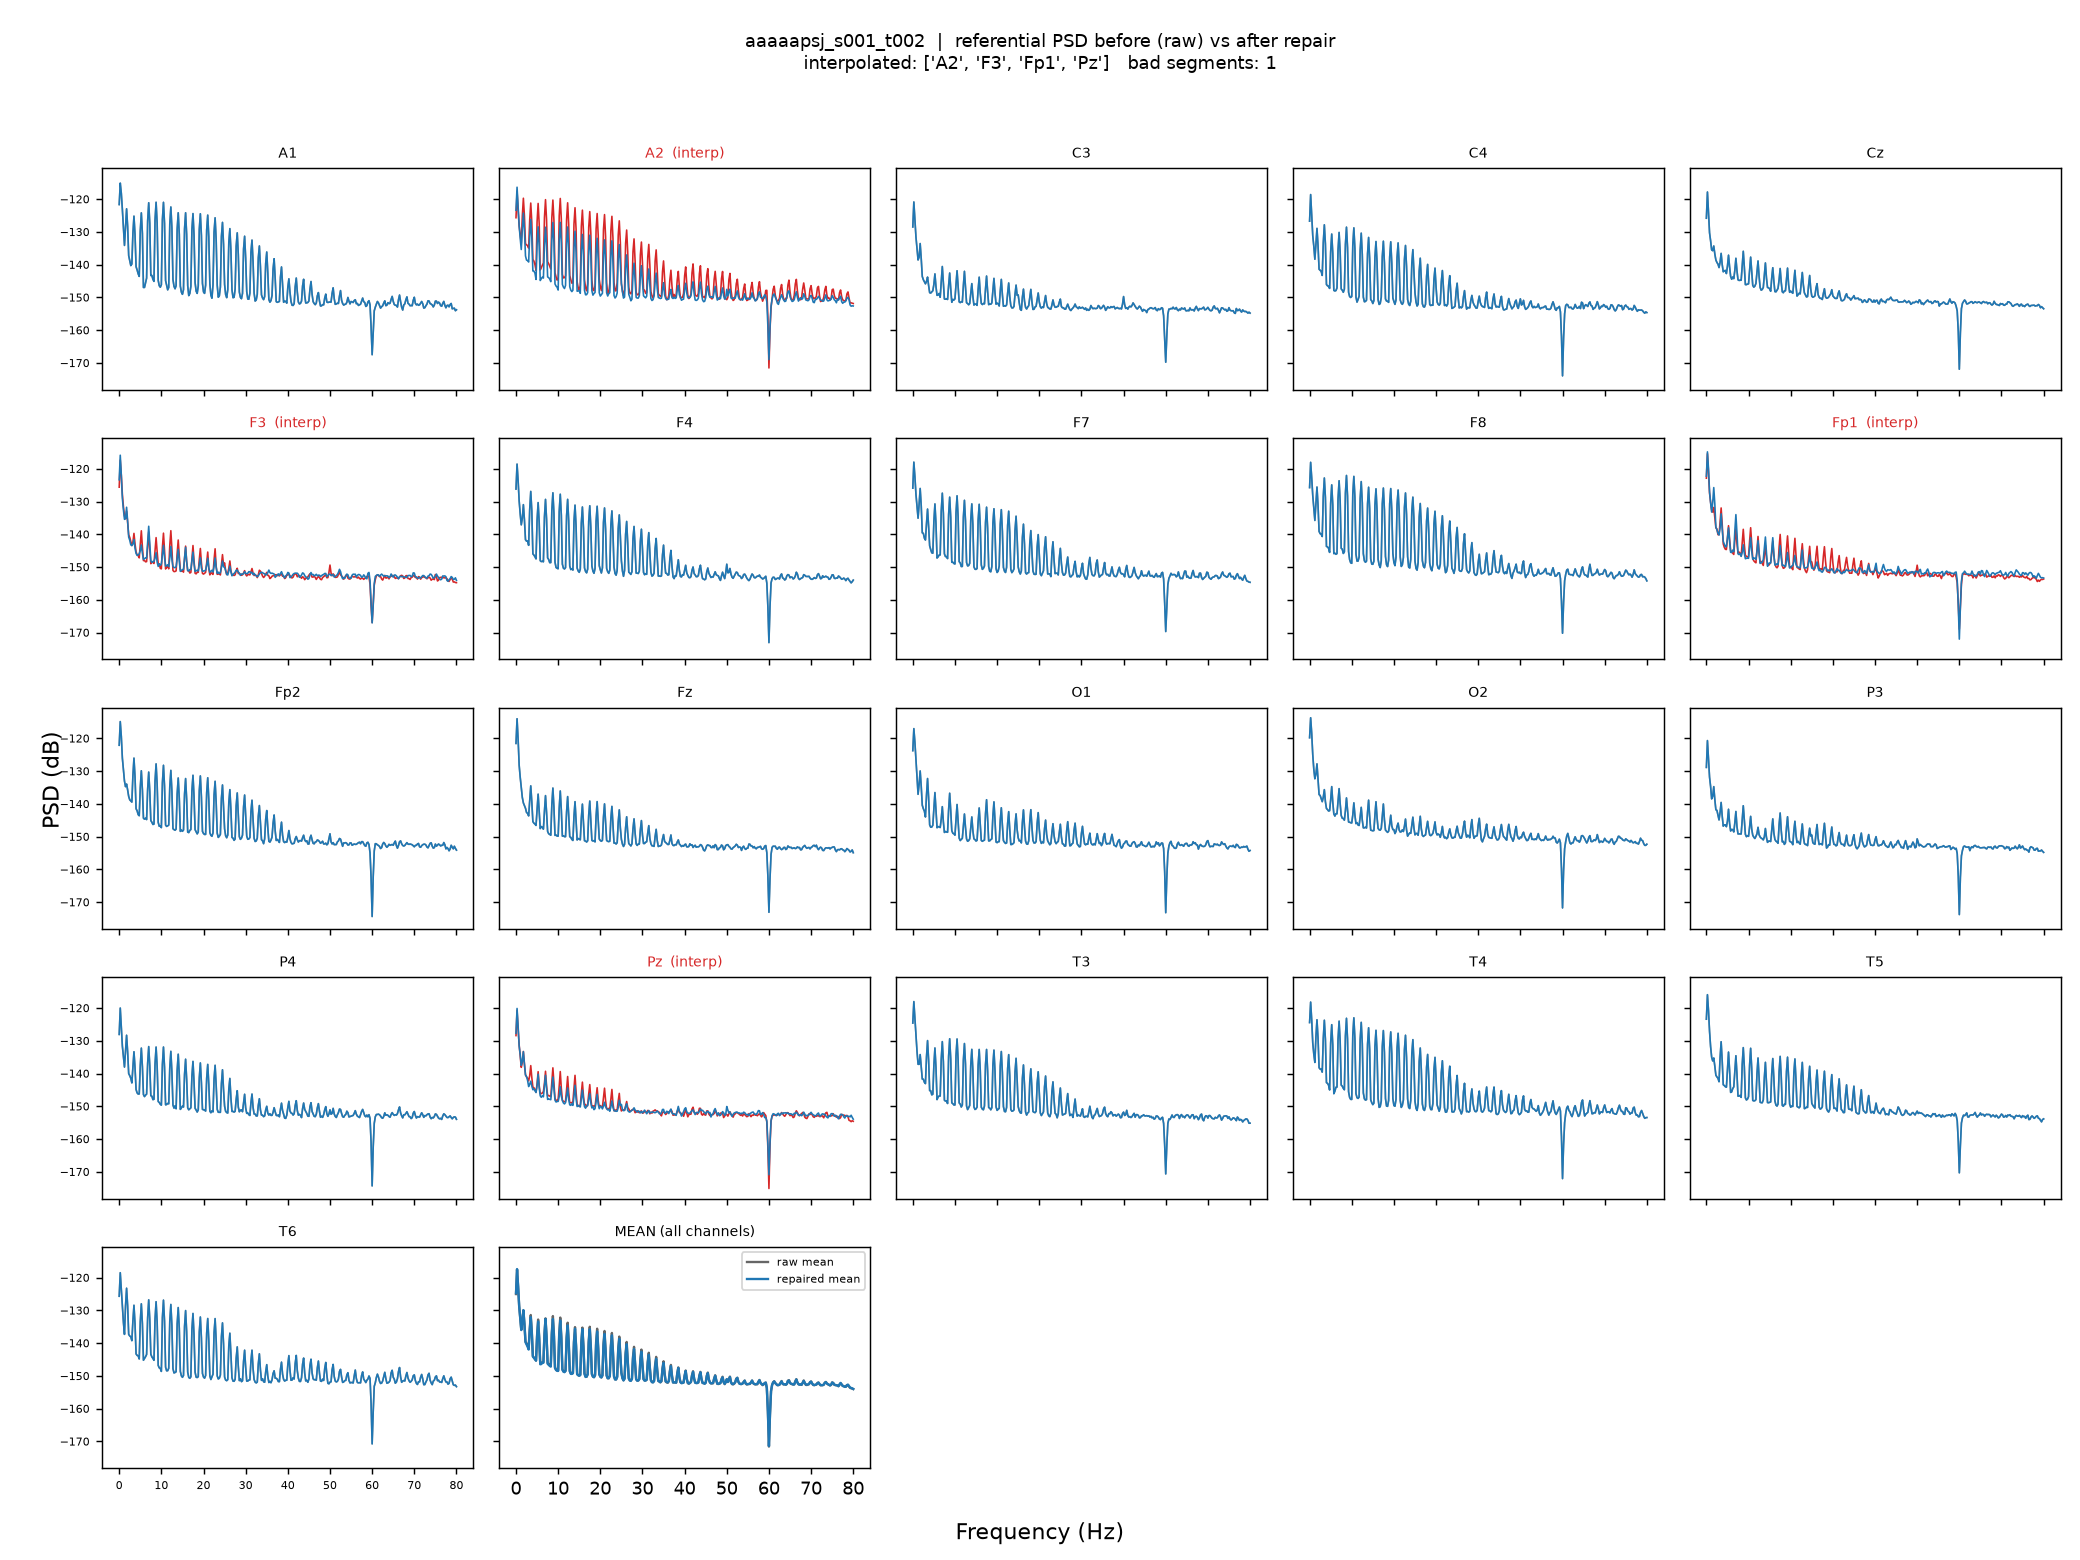
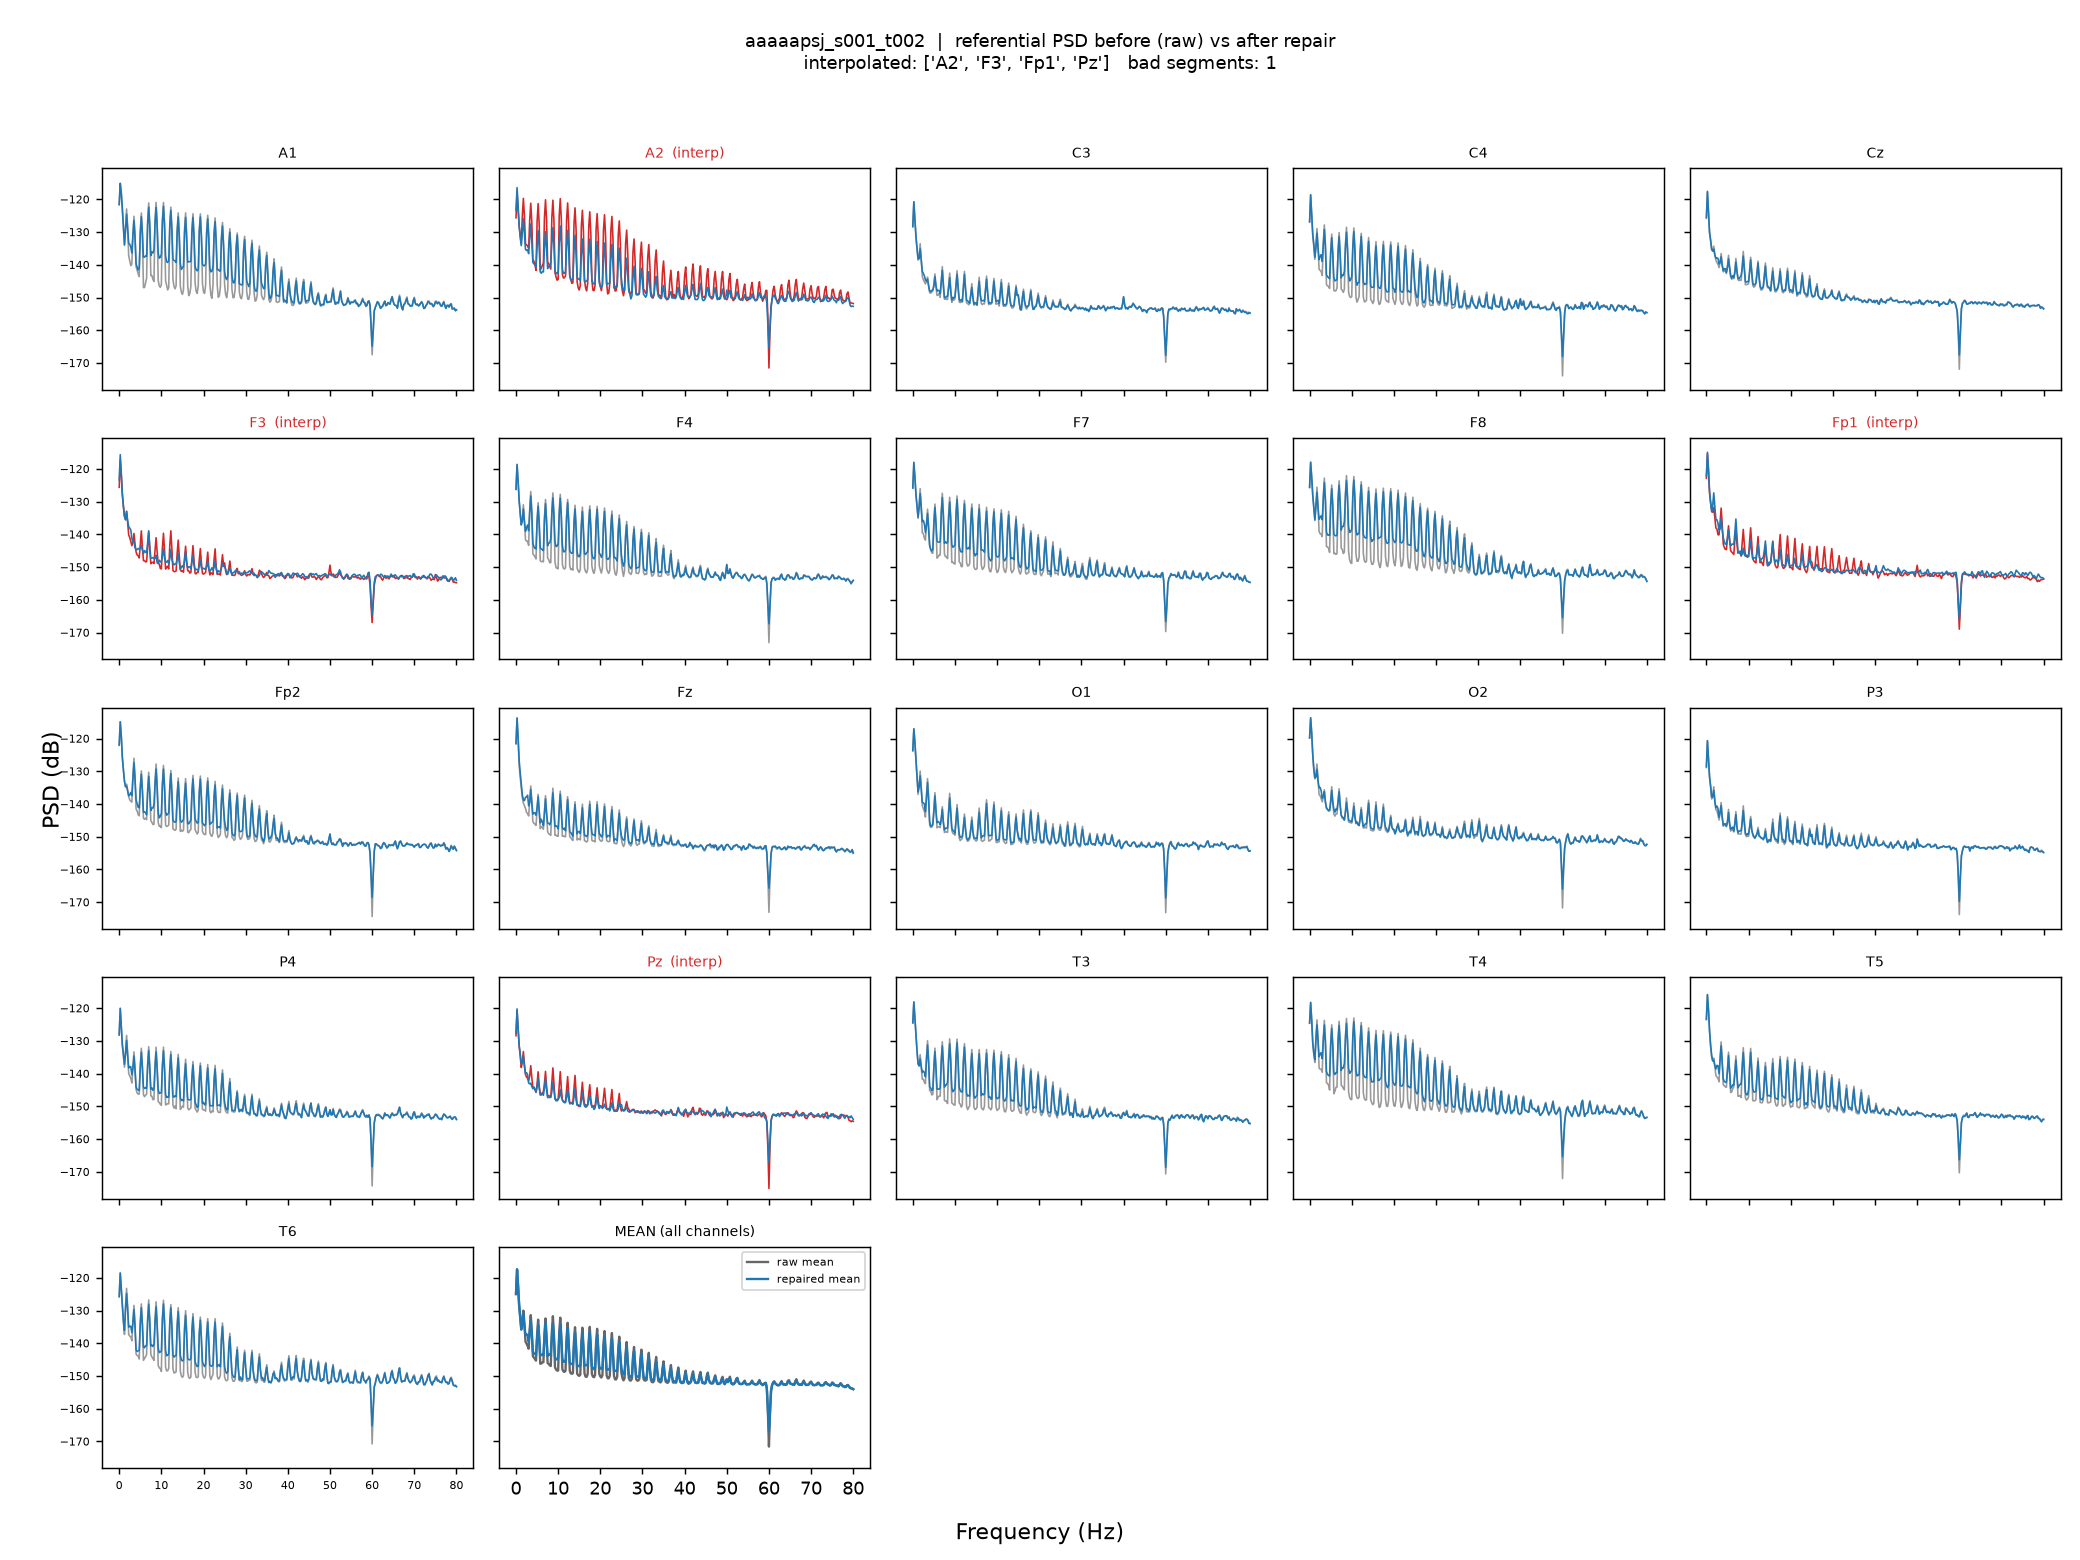
feat: Update test script to include periodic artifact analysis and JSON data handling

diff --git a/test.py b/test.py
@@ -1,24 +1,36 @@
 
-import mne, numpy as np
-from src.data.components.tuh_eeg_epilepsy import TUHEEGEpilepsy
-from pyprep.find_noisy_channels import NoisyChannels
-print('Starting test...')
-edf = "/work/cniel/sw/singularity_containers/tuh-eeg-epilepsy/project/data/v3.0.0/01_no_epilepsy/aaaaapsj/s001_2013/01_tcp_ar/aaaaapsj_s001_t002.edf"            # the recording you tested
-raw = mne.io.read_raw_edf(edf, preload=True, verbose="error")
-TUHEEGEpilepsy._rename_channels(raw)
-raw.pick([c for c, t in zip(raw.ch_names, raw.get_channel_types()) if t == "eeg"])
-TUHEEGEpilepsy._set_montage(raw)
-det = raw.copy().filter(1.0, None, verbose="error")
-det.notch_filter(60, verbose="error")
+# import mne, numpy as np
+# from src.data.components.tuh_eeg_epilepsy import TUHEEGEpilepsy
+# from pyprep.find_noisy_channels import NoisyChannels
+# print('Starting test...')
+# edf = "/work/cniel/sw/singularity_containers/tuh-eeg-epilepsy/project/data/v3.0.0/01_no_epilepsy/aaaaapsj/s001_2013/01_tcp_ar/aaaaapsj_s001_t002.edf"            # the recording you tested
+# raw = mne.io.read_raw_edf(edf, preload=True, verbose="error")
+# TUHEEGEpilepsy._rename_channels(raw)
+# raw.pick([c for c, t in zip(raw.ch_names, raw.get_channel_types()) if t == "eeg"])
+# TUHEEGEpilepsy._set_montage(raw)
+# det = raw.copy().filter(1.0, None, verbose="error")
+# det.notch_filter(60, verbose="error")
 
-d = det.get_data()
-ptp_uv = (d.max(1) - d.min(1)) * 1e6
-print(f"scale: median ptp = {np.median(ptp_uv):.1f} uV  (min {ptp_uv.min():.1f}, max {ptp_uv.max():.1f})")
-pos = (det.get_montage().get_positions() or {}).get("ch_pos", {})
-n_pos = sum(1 for c in det.ch_names if c in pos and np.all(np.isfinite(pos[c])))
-print(f"positions: {n_pos}/{len(det.ch_names)} channels have montage coords")
+# d = det.get_data()
+# ptp_uv = (d.max(1) - d.min(1)) * 1e6
+# print(f"scale: median ptp = {np.median(ptp_uv):.1f} uV  (min {ptp_uv.min():.1f}, max {ptp_uv.max():.1f})")
+# pos = (det.get_montage().get_positions() or {}).get("ch_pos", {})
+# n_pos = sum(1 for c in det.ch_names if c in pos and np.all(np.isfinite(pos[c])))
+# print(f"positions: {n_pos}/{len(det.ch_names)} channels have montage coords")
 
-nc = NoisyChannels(det, do_detrend=False); nc.find_all_bads(ransac=True)
-for a in ("bad_by_nan","bad_by_flat","bad_by_deviation","bad_by_hf_noise",
-          "bad_by_correlation","bad_by_SNR","bad_by_dropout","bad_by_ransac"):
-    print(f"  {a}: {getattr(nc, a, '?')}")
+# nc = NoisyChannels(det, do_detrend=False); nc.find_all_bads(ransac=True)
+# for a in ("bad_by_nan","bad_by_flat","bad_by_deviation","bad_by_hf_noise",
+#           "bad_by_correlation","bad_by_SNR","bad_by_dropout","bad_by_ransac"):
+#     print(f"  {a}: {getattr(nc, a, '?')}")
+
+import json, glob, numpy as np
+funds, flagged = [], 0
+for p in glob.glob("data/v3.0.0/**/*-bads.json", recursive=True):
+    pa = (json.load(open(p)) or {}).get("periodic_artifact") or {}
+    if pa.get("flagged"):
+        flagged += 1
+        funds.append(pa.get("fundamental_hz"))
+f = np.array([x for x in funds if x is not None])
+print(f"flagged={flagged}  with_fundamental={len(f)}  none={sum(x is None for x in funds)}")
+for lo, hi in [(0.5,0.7),(0.7,1.2),(1.2,2.0),(2.0,3.5),(3.5,6.01),(6.01,10.0),(10.0,20.0),(20.0,40.0),(40.0,80.0),(80.0,160.0)]:
+    print(f"  [{lo},{hi}) Hz: {int(((f>=lo)&(f<hi)).sum())}")